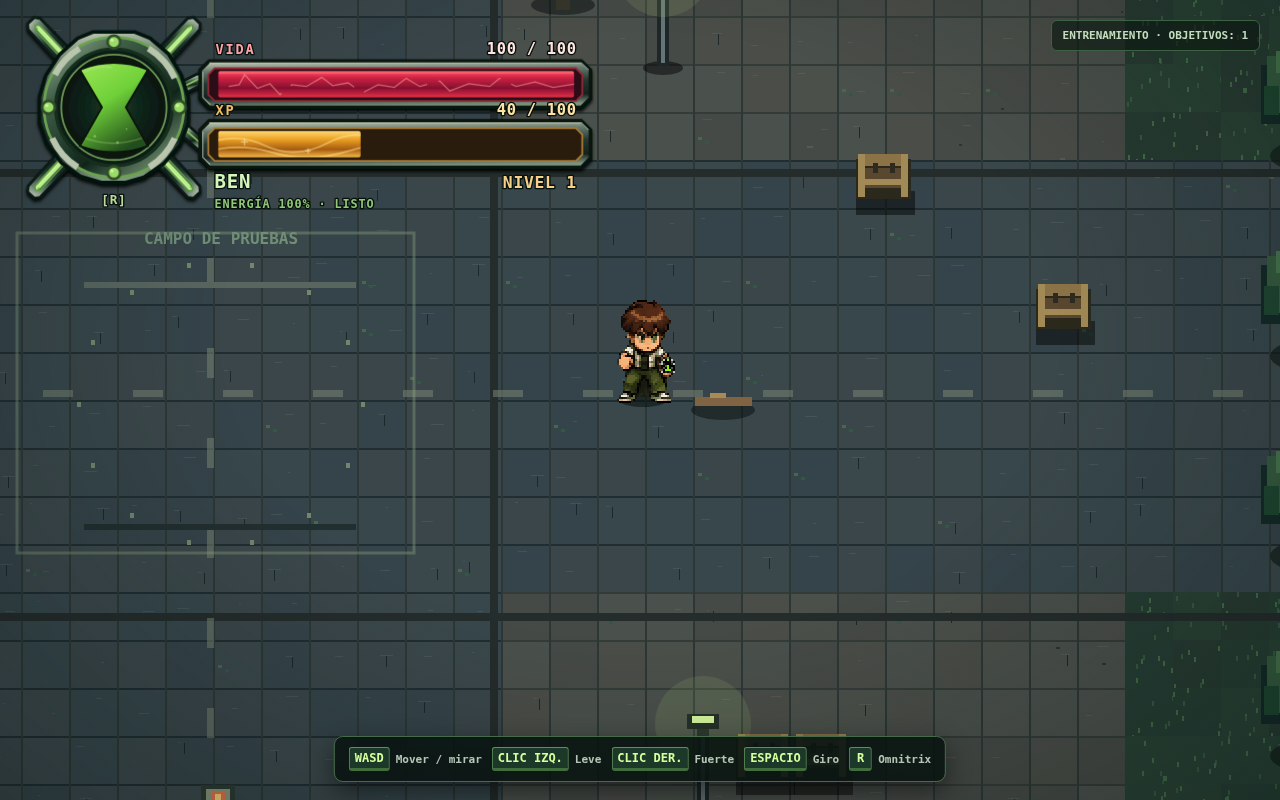
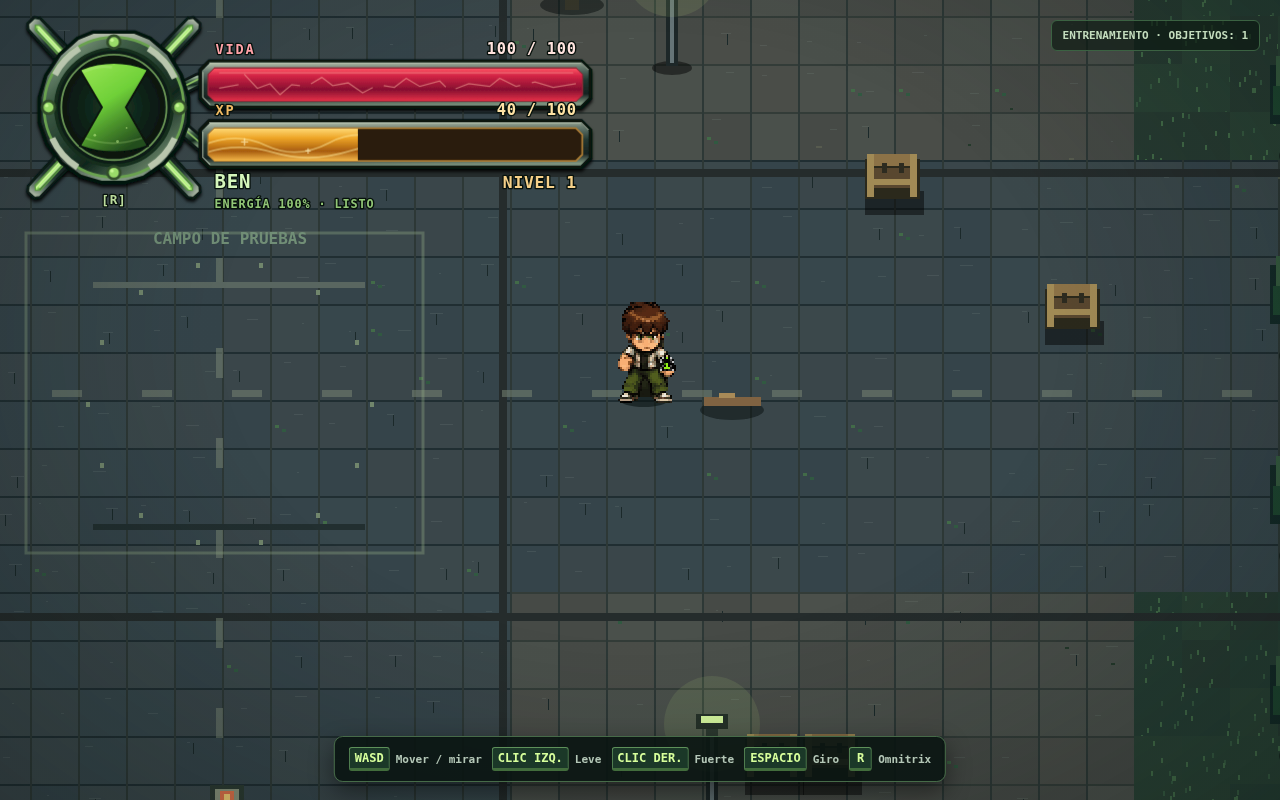
Fill life and XP bars to the HUD frame edges

diff --git a/index.html b/index.html
@@ -70,8 +70,10 @@ kbd { display:inline-grid; place-items:center; min-height:23px; min-width:23px; 
    <radialGradient id="hudLens"><stop stop-color="#193a27"/><stop offset="1" stop-color="#07140f"/></radialGradient>
    <clipPath id="hudHourglass"><path d="M74 64 Q110 50 146 64 L122 105 L146 147 Q110 160 74 147 L98 105Z"/></clipPath>
    <clipPath id="hudEnergyLiquidClip"><rect id="energyLiquidMask" x="68" y="52" width="84" height="107"/></clipPath>
-   <clipPath id="hudHealthClip"><rect id="healthClipWidth" x="225" y="65" width="392" height="29" rx="2"/></clipPath>
-   <clipPath id="hudXPClip"><rect id="xpClipWidth" x="225" y="131" width="0" height="29" rx="2"/></clipPath>
+   <clipPath id="hudHealthWindow"><path d="M221 62H619L626 69V91L619 98H221L214 91V69Z"/></clipPath>
+   <clipPath id="hudHealthClip"><rect id="healthClipWidth" x="214" y="62" width="412" height="36"/></clipPath>
+   <clipPath id="hudXPWindow"><path d="M221 128H619L626 135V157L619 164H221L214 157V135Z"/></clipPath>
+   <clipPath id="hudXPClip"><rect id="xpClipWidth" x="214" y="128" width="0" height="36"/></clipPath>
    <filter id="hudShadow" x="-30%" y="-30%" width="160%" height="170%"><feDropShadow dx="0" dy="3" stdDeviation="2" flood-color="#000" flood-opacity=".85"/></filter>
    <g id="hudAntenna"><path d="M-10-3-9-60-5-65H5L9-60 10-3Z" fill="url(#hudMetal)" stroke="#081a14" stroke-width="3"/><path class="hud-rod" d="M-4-9-4-54 0-58 4-54 4-9Z" fill="url(#hudRod)" stroke="#5c9a43" stroke-width="1.5"/><path d="M-1-12V-53" stroke="#dcffb7" stroke-width="2" opacity=".7"/></g>
   </defs>
@@ -93,12 +95,12 @@ kbd { display:inline-grid; place-items:center; min-height:23px; min-width:23px; 
    <path d="M76 66Q94 58 108 61" fill="none" stroke="#d0f4ad" stroke-width="3" opacity=".2"/>
    <g fill="#9adb69" stroke="#314d2b" stroke-width="3"><circle cx="110" cy="33" r="7"/><circle cx="38" cy="105" r="7"/><circle cx="182" cy="105" r="7"/><circle cx="110" cy="177" r="7"/></g>
    <g fill="#d3ff9f" opacity=".8"><circle cx="108" cy="31" r="2"/><circle cx="36" cy="103" r="2"/><circle cx="180" cy="103" r="2"/><circle cx="108" cy="175" r="2"/></g>
-   <g><path d="M215 54H625L635 64V95L625 105H215L205 95V64Z" fill="url(#hudMetal)" stroke="#071510" stroke-width="4"/><path d="M221 62H619L626 69V91L619 98H221L214 91V69Z" fill="#2b0b17" stroke="#902a37" stroke-width="2"/><rect id="healthFill" x="225" y="65" width="392" height="29" rx="2" fill="url(#hudRed)"/>
-    <g clip-path="url(#hudHealthClip)"><path class="hud-electric" d="M226 84 248 80 254 69 268 84 282 79 293 91 306 80 322 82 339 72 351 81 368 78 384 89 401 80 419 83 432 73 447 82 469 76 480 87 501 79 524 82 535 73 553 82 574 77 594 83 619 79" fill="none" stroke="#ffb5a2" stroke-width="1.4" opacity=".5"/><path d="M226 67H616" stroke="#ffb9ac" opacity=".5"/></g>
+   <g><path d="M215 54H625L635 64V95L625 105H215L205 95V64Z" fill="url(#hudMetal)" stroke="#071510" stroke-width="4"/><path d="M221 62H619L626 69V91L619 98H221L214 91V69Z" fill="#2b0b17" stroke="#902a37" stroke-width="2"/><g clip-path="url(#hudHealthWindow)"><rect id="healthFill" x="214" y="62" width="412" height="36" fill="url(#hudRed)"/>
+    <g clip-path="url(#hudHealthClip)"><path class="hud-electric" d="M226 84 248 80 254 69 268 84 282 79 293 91 306 80 322 82 339 72 351 81 368 78 384 89 401 80 419 83 432 73 447 82 469 76 480 87 501 79 524 82 535 73 553 82 574 77 594 83 619 79" fill="none" stroke="#ffb5a2" stroke-width="1.4" opacity=".5"/><path d="M226 67H616" stroke="#ffb9ac" opacity=".5"/></g></g>
     <path d="M215 56H625L633 64M208 66V94L216 102" fill="none" stroke="#becab5" stroke-width="1.5" opacity=".65"/>
    </g>
-   <g><path d="M215 120H625L635 130V161L625 171H215L205 161V130Z" fill="url(#hudMetal)" stroke="#071510" stroke-width="4"/><path d="M221 128H619L626 135V157L619 164H221L214 157V135Z" fill="#291b09" stroke="#a87a35" stroke-width="2"/><rect id="xpFill" x="225" y="131" width="0" height="29" rx="2" fill="url(#hudAmber)"/>
-    <g clip-path="url(#hudXPClip)"><path class="hud-xp-swirl" d="M209 148Q247 131 281 147T351 144T421 148T491 143T563 146T640 143M215 155Q251 143 290 155T374 153T458 154T548 151T640 154" fill="none" stroke="#ffeb9b" stroke-width="2" opacity=".5"/><path class="hud-xp-stars" d="M254 139V147M250 143H258M324 150V156M321 153H327M420 136V144M416 140H424M535 148V156M531 152H539M587 136V142M584 139H590" stroke="#fff1bc" stroke-width="1.5"/></g>
+   <g><path d="M215 120H625L635 130V161L625 171H215L205 161V130Z" fill="url(#hudMetal)" stroke="#071510" stroke-width="4"/><path d="M221 128H619L626 135V157L619 164H221L214 157V135Z" fill="#291b09" stroke="#a87a35" stroke-width="2"/><g clip-path="url(#hudXPWindow)"><rect id="xpFill" x="214" y="128" width="0" height="36" fill="url(#hudAmber)"/>
+    <g clip-path="url(#hudXPClip)"><path class="hud-xp-swirl" d="M209 148Q247 131 281 147T351 144T421 148T491 143T563 146T640 143M215 155Q251 143 290 155T374 153T458 154T548 151T640 154" fill="none" stroke="#ffeb9b" stroke-width="2" opacity=".5"/><path class="hud-xp-stars" d="M254 139V147M250 143H258M324 150V156M321 153H327M420 136V144M416 140H424M535 148V156M531 152H539M587 136V142M584 139H590" stroke="#fff1bc" stroke-width="1.5"/></g></g>
     <path d="M215 122H625L633 130M208 132V160L216 168" fill="none" stroke="#becab5" stroke-width="1.5" opacity=".65"/>
    </g>
   </g>
@@ -327,7 +329,7 @@ function syncHud(){
  const full=energy>=1-1e-8,low=energy<=.2;
  const signature=[s.health,s.maxHealth,Math.round(energy*1000),full,low,s.form?.id||'',s.xp,s.xpNeeded,s.level,s.form?.name||'BEN',hudLevelFlash>0,hudHitFlash>0].join('|');
  if(signature===hudSignature)return;hudSignature=signature;
- const width=392*life,xpWidth=392*xp,liquidHeight=107*energy,surface=159-liquidHeight;
+ const width=412*life,xpWidth=412*xp,liquidHeight=107*energy,surface=159-liquidHeight;
  hudElements.healthFill.setAttribute('width',width);hudElements.healthClipWidth.setAttribute('width',width);
  hudElements.healthText.textContent=Math.ceil(s.health)+' / '+s.maxHealth;
  hudElements.healthGauge.setAttribute('aria-valuenow',s.health);hudElements.healthGauge.setAttribute('aria-valuemax',s.maxHealth);
